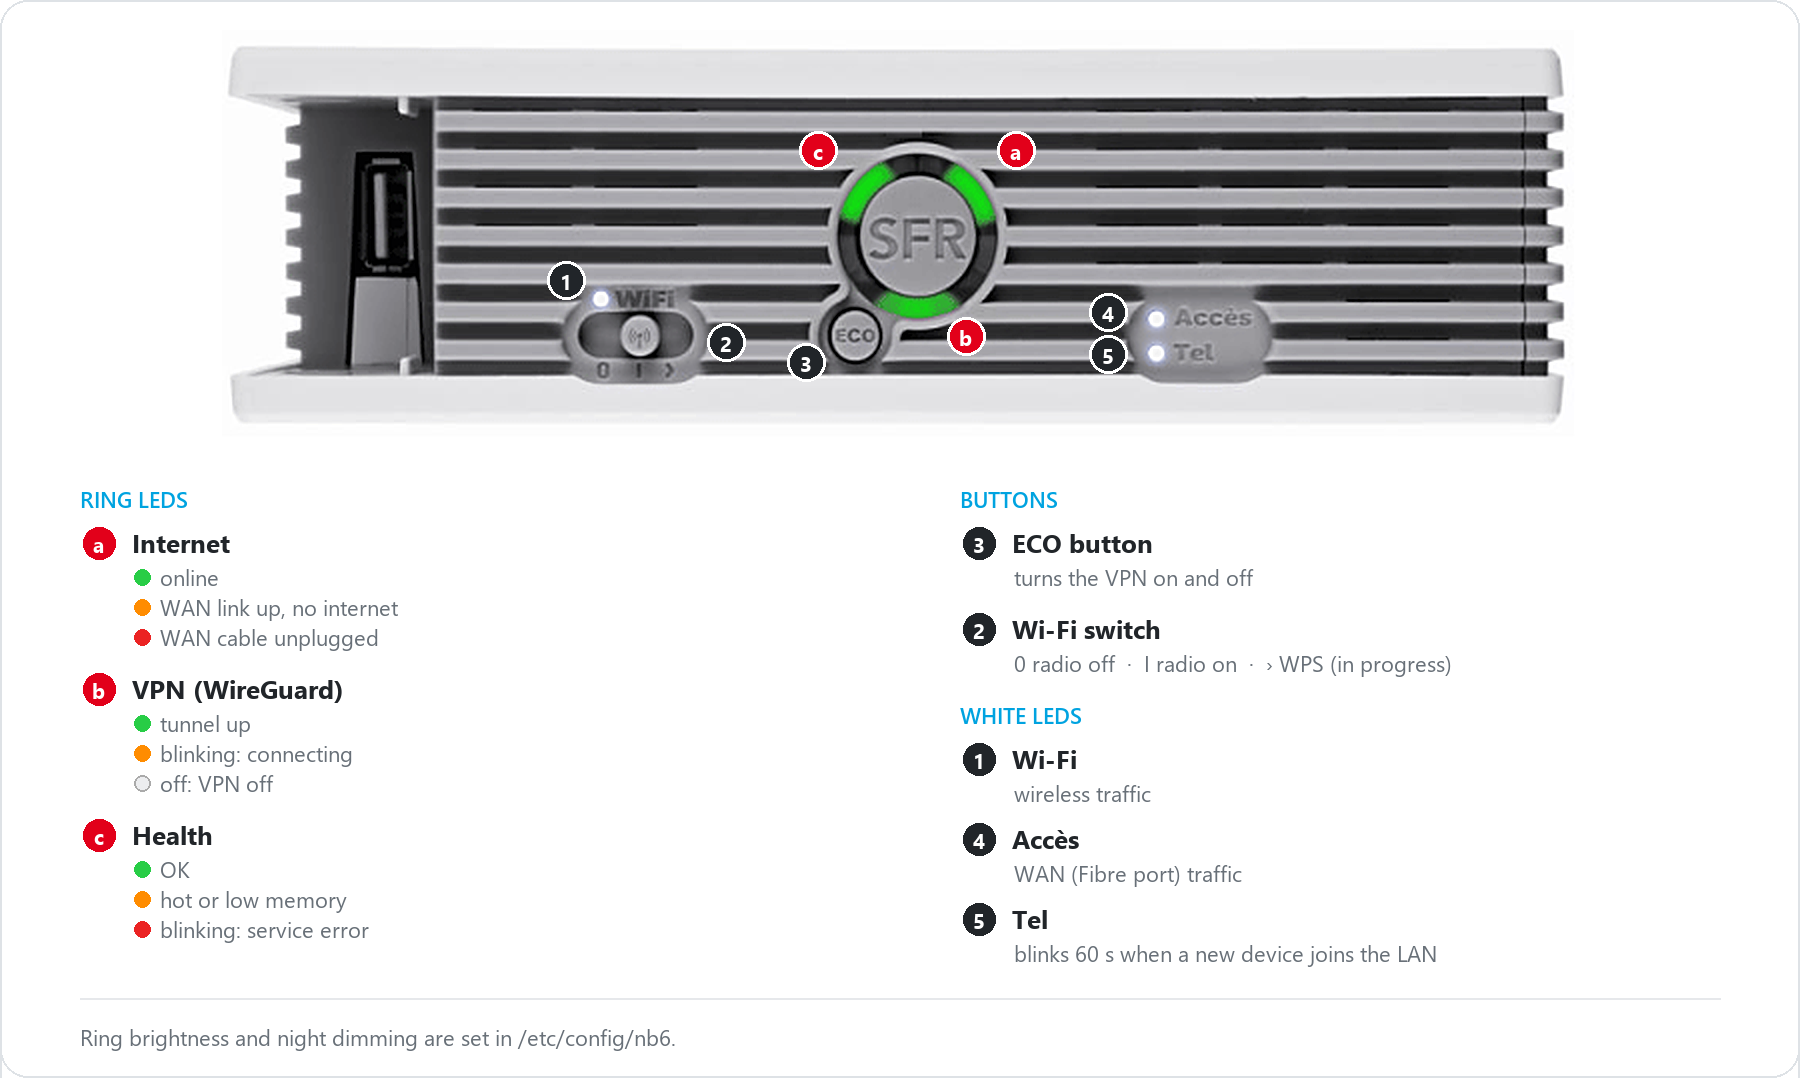
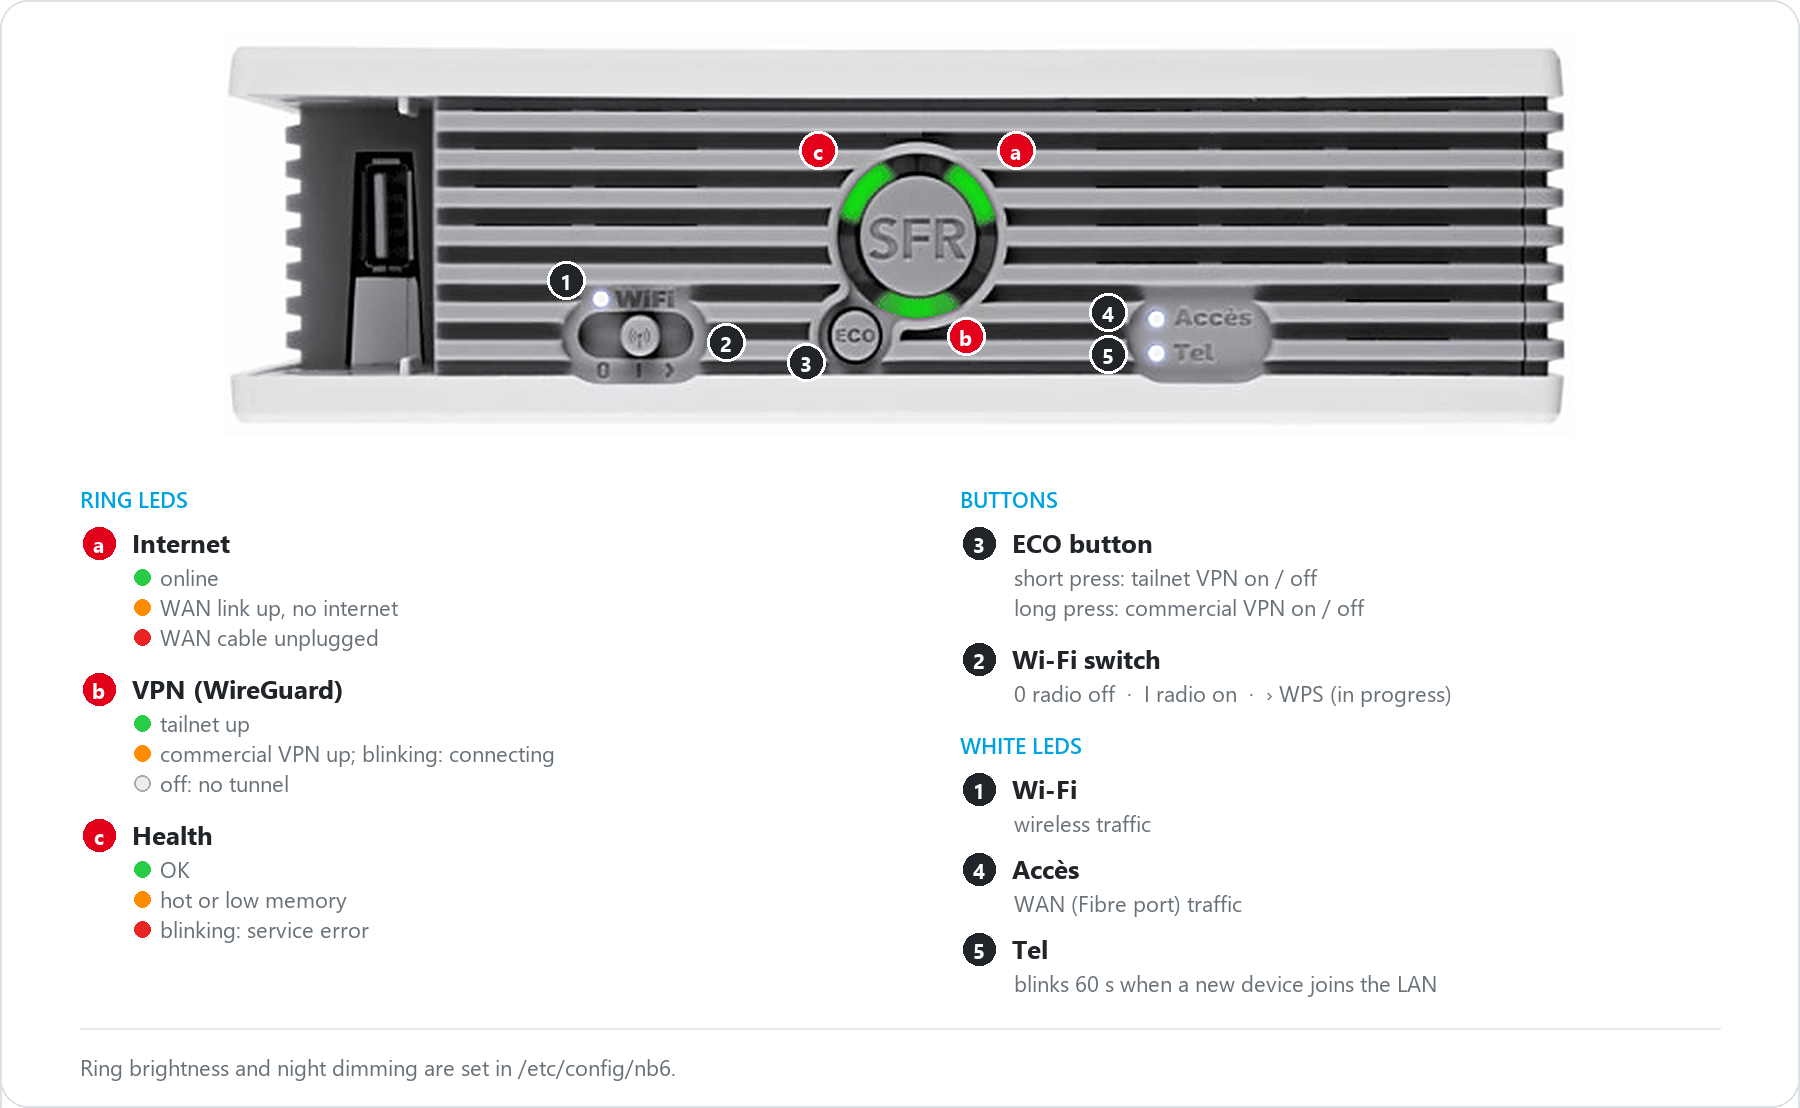
README: describe the VPN on the ECO button

diff --git a/README.md b/README.md
@@ -31,7 +31,7 @@ goes further than the official port ever did:
 | Security updates | ❌ end of life | ✅ follows the 25.12 branch |
 | Integrated Wi-Fi | ❌ | ✅ access point, WPA2 |
 | Front LEDs (a/b/c, wan, voip, wlan) | ❌ | ✅ with status meanings |
-| ECO button | ❌ | ✅ VPN on/off |
+| ECO button | ❌ | ✅ tailnet / commercial VPN on/off |
 | Sensors (temperature, voltage) | ❌ | ✅ with graphs in LuCI |
 | Compressed swap (zram), watchdog | ❌ | ✅ |
 | Wi-Fi schedule, LED night mode | ❌ | ✅ |
@@ -54,7 +54,7 @@ SFR LED/sensor microcontroller on I²C. Full details, GPIO map, flash layout and
 > Tested on real hardware: LED colours and order, ECO button, Wi-Fi switch, sensors (51 °C, 12.2 V).
 > Work in progress: WPS (switch pushed past "on") is detected but does not start pairing yet, because hostapd in OpenWrt 25.12 exposes no per-interface WPS call here. See [docs/LEDS-BUTTONS.md](docs/LEDS-BUTTONS.md).
 
-- **ECO** button → turns the **WireGuard VPN** (interface `vpn`) on and off; LED **b** shows the tunnel state.
+- **ECO** button → short press: **tailnet** tunnel (Tailscale network through a WireGuard server); long press: **commercial VPN**. LED **b** shows which tunnels are up. → **[docs/VPN.md](docs/VPN.md)**
 - **Wi-Fi switch** → radio on / off; pushed further → **WPS** (work in progress).
 
 More in **[docs/LEDS-BUTTONS.md](docs/LEDS-BUTTONS.md)**.
@@ -110,7 +110,8 @@ The image therefore ships a small **lzma-loader** that CFE unpacks first, which 
 | [docs/BUILD.md](docs/BUILD.md) | building the firmware with Docker |
 | [docs/FLASHING.md](docs/FLASHING.md) | first flash from CFE, updates, going back to the SFR firmware |
 | [docs/WIFI.md](docs/WIFI.md) | integrated Wi-Fi: driver, firmware, calibration |
-| [docs/LEDS-BUTTONS.md](docs/LEDS-BUTTONS.md) | LEDs, buttons, sensors, VPN |
+| [docs/LEDS-BUTTONS.md](docs/LEDS-BUTTONS.md) | LEDs, buttons, sensors |
+| [docs/VPN.md](docs/VPN.md) | tailnet and commercial VPN on the ECO button |
 | [docs/EXTRAS.md](docs/EXTRAS.md) | zram, watchdog, statistics, Wi-Fi schedule, night mode, Wake-on-LAN, terminal |
 | [docs/PORTING.md](docs/PORTING.md) | how the port was done, bring-up problems, test results |
 | [CHANGELOG.md](CHANGELOG.md) | changes per version |
@@ -122,7 +123,7 @@ assets/            photos and diagrams used in this README
 config/nb6.config  OpenWrt target and package selection
 docker/            Debian 12 build environment
 docs/              hardware, build, flashing, Wi-Fi, LEDs and buttons, extras, porting notes
-files/             added to the image: LED daemon and its settings, button handlers, first-boot defaults
+files/             added to the image: LED daemon and its settings, VPN helper, button handlers, first-boot defaults
 patches/board/     device tree, image recipe, RTL8367R RGMII fix, nb6-hwmon LED driver
 patches/wifi/      BCM6362 WLAN: bcma host, b43 N-PHY r8 / radio 2057 r8, firmware, calibration
 scripts/           build.sh, apply-board.sh, apply-wifi.sh

diff --git a/CHANGELOG.md b/CHANGELOG.md
@@ -1,5 +1,10 @@
 # Changelog
 
+## Unreleased
+### Added
+- Two WireGuard tunnels on the ECO button: tailnet (short press) and commercial VPN (long press),
+  set up with `nb6-vpn`; LED b shows which ones are up. See `docs/VPN.md`.
+
 ## 2.0 (2026-11-13)
 ### Added
 - zram compressed swap.
